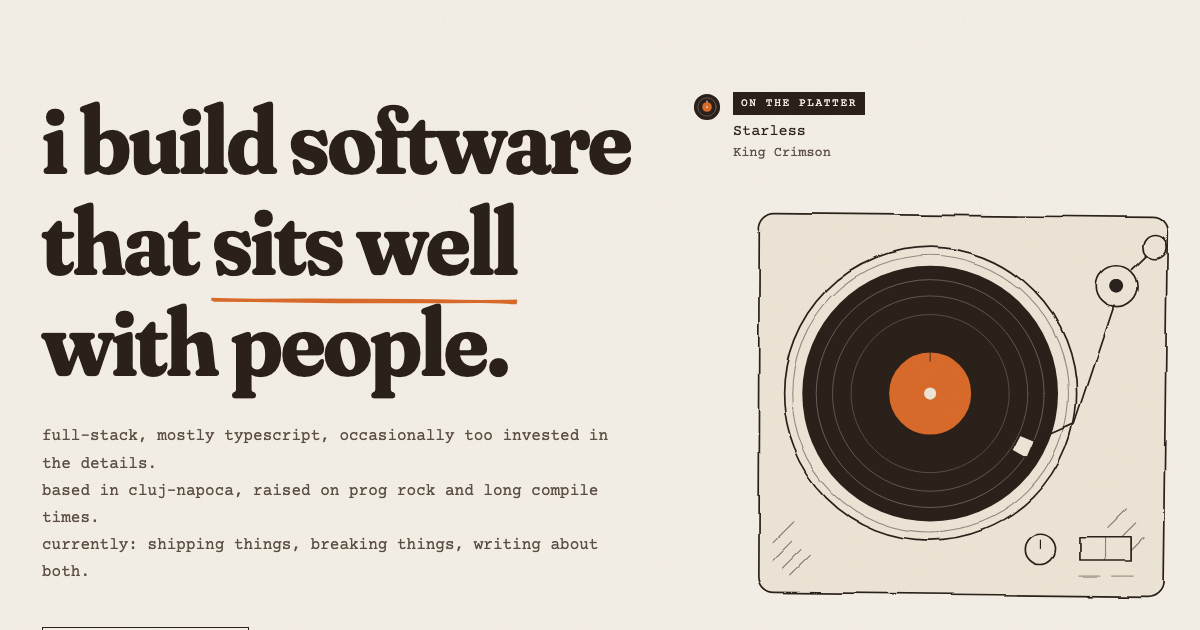
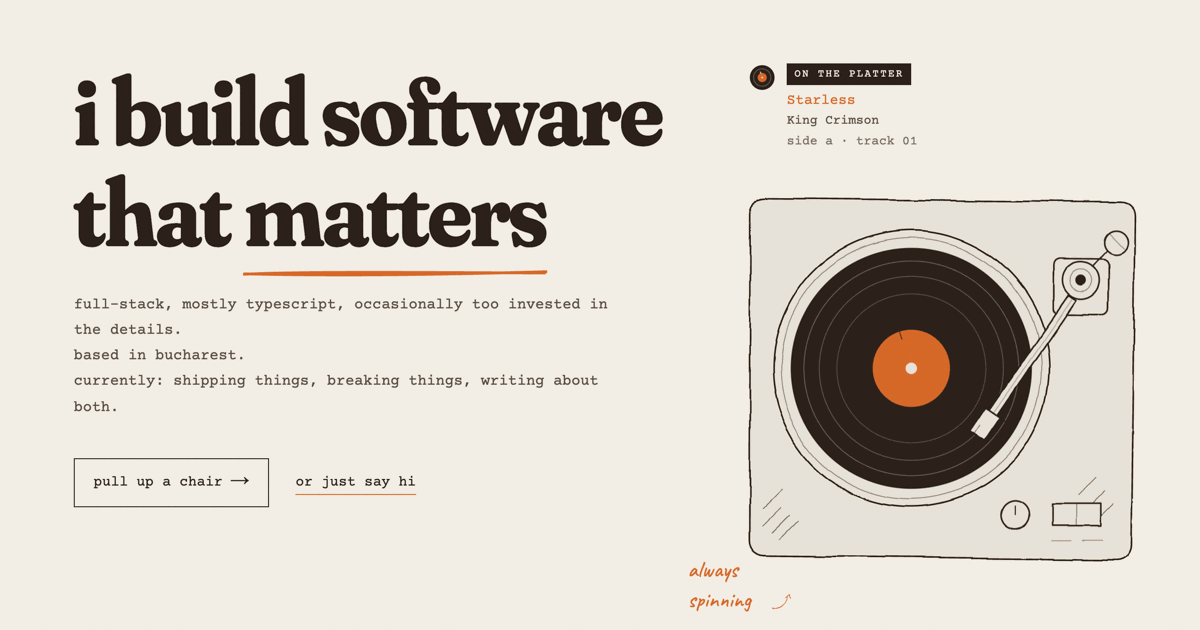
readme: write the room down, and retake the card at the door
The readme was still the create-next-app boilerplate, which described a
Next.js starter rather than a listening bar. Replace it: the four rooms
and what each one is for, the stack, the env vars (all optional, and
what each one degrades to without a key), where the copy lives, and the
handful of details worth knowing before touching anything — the record
being composed in code, sound off until asked, the no-JS path.

The share card was a year out of date: old headline, wrong city. Retake
it against a production build, framed from under the header to just past
the scribble so nothing is cut. Palette-reduced on the way out, 488K to
67K, which also puts it back under WhatsApp's preview ceiling.

diff --git a/README.md b/README.md
@@ -1,54 +1,114 @@
-This is a [Next.js](https://nextjs.org/) project bootstrapped with [`create-next-app`](https://github.com/vercel/next.js/tree/canary/packages/create-next-app).
+# flavius.pro
 
-## Getting Started
+A personal portfolio built as a listening bar: paper, ink, hand-drawn marks, and a record you can actually put on.
 
-First, run the development server:
+![the bar](./public/main.png)
+
+Live at **[flavius.pro](https://flavius.pro)**.
+
+---
+
+## The idea
+
+Most engineering portfolios are a hero, a card grid, a timeline, and a contact form. This one is a room you walk into.
+
+- **the bar** — the headline, and whatever's on the platter right now.
+- **the shelf** — projects, standing on two wooden planks as illustrated objects (a record, a cassette, a book, a moka pot). Click one and its case study opens behind it.
+- **the record player** — writing on one side, the work history on the other, set as a bar tab rather than a list of jobs.
+- **the door** — closing time: about, and socials as coasters stacked on the counter.
+- **the back room** — a side page for the things I didn't make but keep: books, film, art, places.
+
+Two rules hold the whole thing together: **every mark is drawn, not imported** — there is no icon library, no illustration PNG, no audio file, it's inline SVG and Web Audio all the way down — and **orange means one thing**, so there's a hard budget of accent marks per screen.
+
+## Stack
+
+| | |
+|---|---|
+| Framework | Next.js 16 (App Router, React 19, Server Components by default) |
+| Language | TypeScript |
+| Styling | Tailwind CSS 3, with the default palette **replaced** rather than extended |
+| Type | Fraunces (display, variable `SOFT`/`WONK` axes), Courier Prime (body), Caveat (margin notes) |
+| Drawing | Inline SVG, plus `roughjs` / `react-rough-notation` for hand-drawn strokes |
+| Audio | Web Audio API — the house record is composed in code (`lib/vinyl.ts`) |
+| Monitoring | Sentry, and Google Analytics 4 if you give it an ID |
+
+## Getting started
 
 ```bash
+npm install
 npm run dev
-# or
-yarn dev
-# or
-pnpm dev
-# or
-bun dev
 ```
 
-Open [http://localhost:3000](http://localhost:3000) with your browser to see the result.
+Open [http://localhost:3000](http://localhost:3000).
 
-You can start editing the page by modifying `app/page.tsx`. The page auto-updates as you edit the file.
+### Scripts
 
-This project uses [`next/font`](https://nextjs.org/docs/basic-features/font-optimization) to automatically optimize and load Inter, a custom Google Font.
-
-## Google Analytics Setup
-
-This project is configured to work with Google Analytics 4. To set it up:
-
-1. Create a Google Analytics 4 property in your [Google Analytics account](https://analytics.google.com/)
-2. Get your Measurement ID (starts with G-)
-3. Add the Measurement ID to your `.env.local` file:
-
+```bash
+npm run dev        # dev server
+npm run build      # production build
+npm run start      # serve the production build
+npm run lint       # eslint
+npm run lint:fix   # eslint, with fixes
 ```
+
+### Environment
+
+All optional. The site runs fine on an empty `.env.local` — the pieces that need keys degrade instead of breaking.
+
+```bash
+# app/api/now-playing — the last.fm "on the platter" chip.
+# Without these the route reports itself unconfigured and the chip falls
+# back to a hardcoded rotation. That's the intended behaviour, not a failure.
+LASTFM_API_KEY=
+LASTFM_USER=
+
+# Google Analytics 4 (page views + Core Web Vitals).
+# Omit it and the script never loads.
 NEXT_PUBLIC_GA_MEASUREMENT_ID=G-XXXXXXXXXX
 ```
 
-The analytics implementation includes:
+## Layout
 
-- Automatic page view tracking
-- Core Web Vitals reporting
-- Google Analytics 4 integration
+```
+app/
+  page.tsx              the bar → the shelf → the record player → the door
+  blog/                 index + [id]
+  the-back-room/        books, film, art, places
+  api/now-playing/      last.fm proxy (key stays server-side, 30s revalidate)
+  globals.css           tokens, paper grain, motion
+components/
+  sections/             the four rooms
+  art/                  every drawing: turntable, shelf objects, cuckoo, counter
+  ink/                  the hand-drawn marks: underline, arrow, scribble, rise
+  Nav.tsx               a header that is deliberately not a navbar
+  HouseRecordToggle.tsx the sound switch
+  CaseStudy.tsx         the panel behind a shelf object
+data/
+  site.ts               all the words on the site
+  blog.ts               posts
+  backRoom.ts           the back room shelves
+lib/
+  vinyl.ts              the house record, composed in code
+```
 
-## Learn More
+### Editing content
 
-To learn more about Next.js, take a look at the following resources:
+Copy lives in `data/`, not in components. Adding a project is one object in `projects` (`data/site.ts`); adding a back-room shelf is one object in `backRoom` — no component changes either way. The voice is documented at the top of each data file: lowercase, one evocative line per caption, story before stack.
 
-- [Next.js Documentation](https://nextjs.org/docs) - learn about Next.js features and API.
-- [Learn Next.js](https://nextjs.org/learn) - an interactive Next.js tutorial.
+The palette is locked in `tailwind.config.ts` — five ink-and-paper tones plus two tape values, replacing Tailwind's defaults so no stray blue can creep in. If you're reaching for a colour that isn't in that file, the answer is usually ink at a lower opacity.
 
-You can check out [the Next.js GitHub repository](https://github.com/vercel/next.js/) - your feedback and contributions are welcome!
+## Details worth knowing
 
-## Deploy on Vercel
+- **The house record is generated, not played back.** `lib/vinyl.ts` synthesises a slow four-chord loop in F on an FM Rhodes with upright bass and brushes, then ages it: surface crackle, a thump once per rotation, pitch drift because the platter isn't perfect, highs rolled off at 7k. Nothing is fetched, nothing needs licensing, and there's no mp3 in `/public`.
+- **Sound is off until you ask.** The nav toggle is the single switch. The hover and click tones in `RoomTone.tsx` ride one delegated document listener, are mouse-only (a tap would otherwise fire hover and press together), rate-limited, and silent unless the record is already on.
+- **It works without JavaScript.** Shelf objects are anchors pointing at plain sections already in the DOM; the case-study panel is enhancement on top of that.
+- **`prefers-reduced-motion` is honoured throughout** — the turntable stops spinning, ink marks appear rather than drawing themselves.
+- **SEO and a11y are wired up**: per-route metadata and OG images, JSON-LD, `sitemap.ts`, `robots.ts`, and a skip link into `#main` on every page.
 
-The easiest way to deploy your Next.js app is to use the [Vercel Platform](https://vercel.com/new?utm_medium=default-template&filter=next.js&utm_source=create-next-app&utm_campaign=create-next-app-readme) from the creators of Next.js.
+## Deploy
 
-Check out our [Next.js deployment documentation](https://nextjs.org/docs/deployment) for more details.
+Vercel. The build is wrapped in `withSentryConfig`, which uploads source maps when a Sentry auth token is present in the environment and quietly skips the step when it isn't. Client reports are tunnelled through `/monitoring` so ad-blockers don't eat them.
+
+---
+
+Built by [Flavius Cojocaru](https://flavius.pro) in Bucharest. The code is here to read; the drawings, the writing and the house record are mine.
